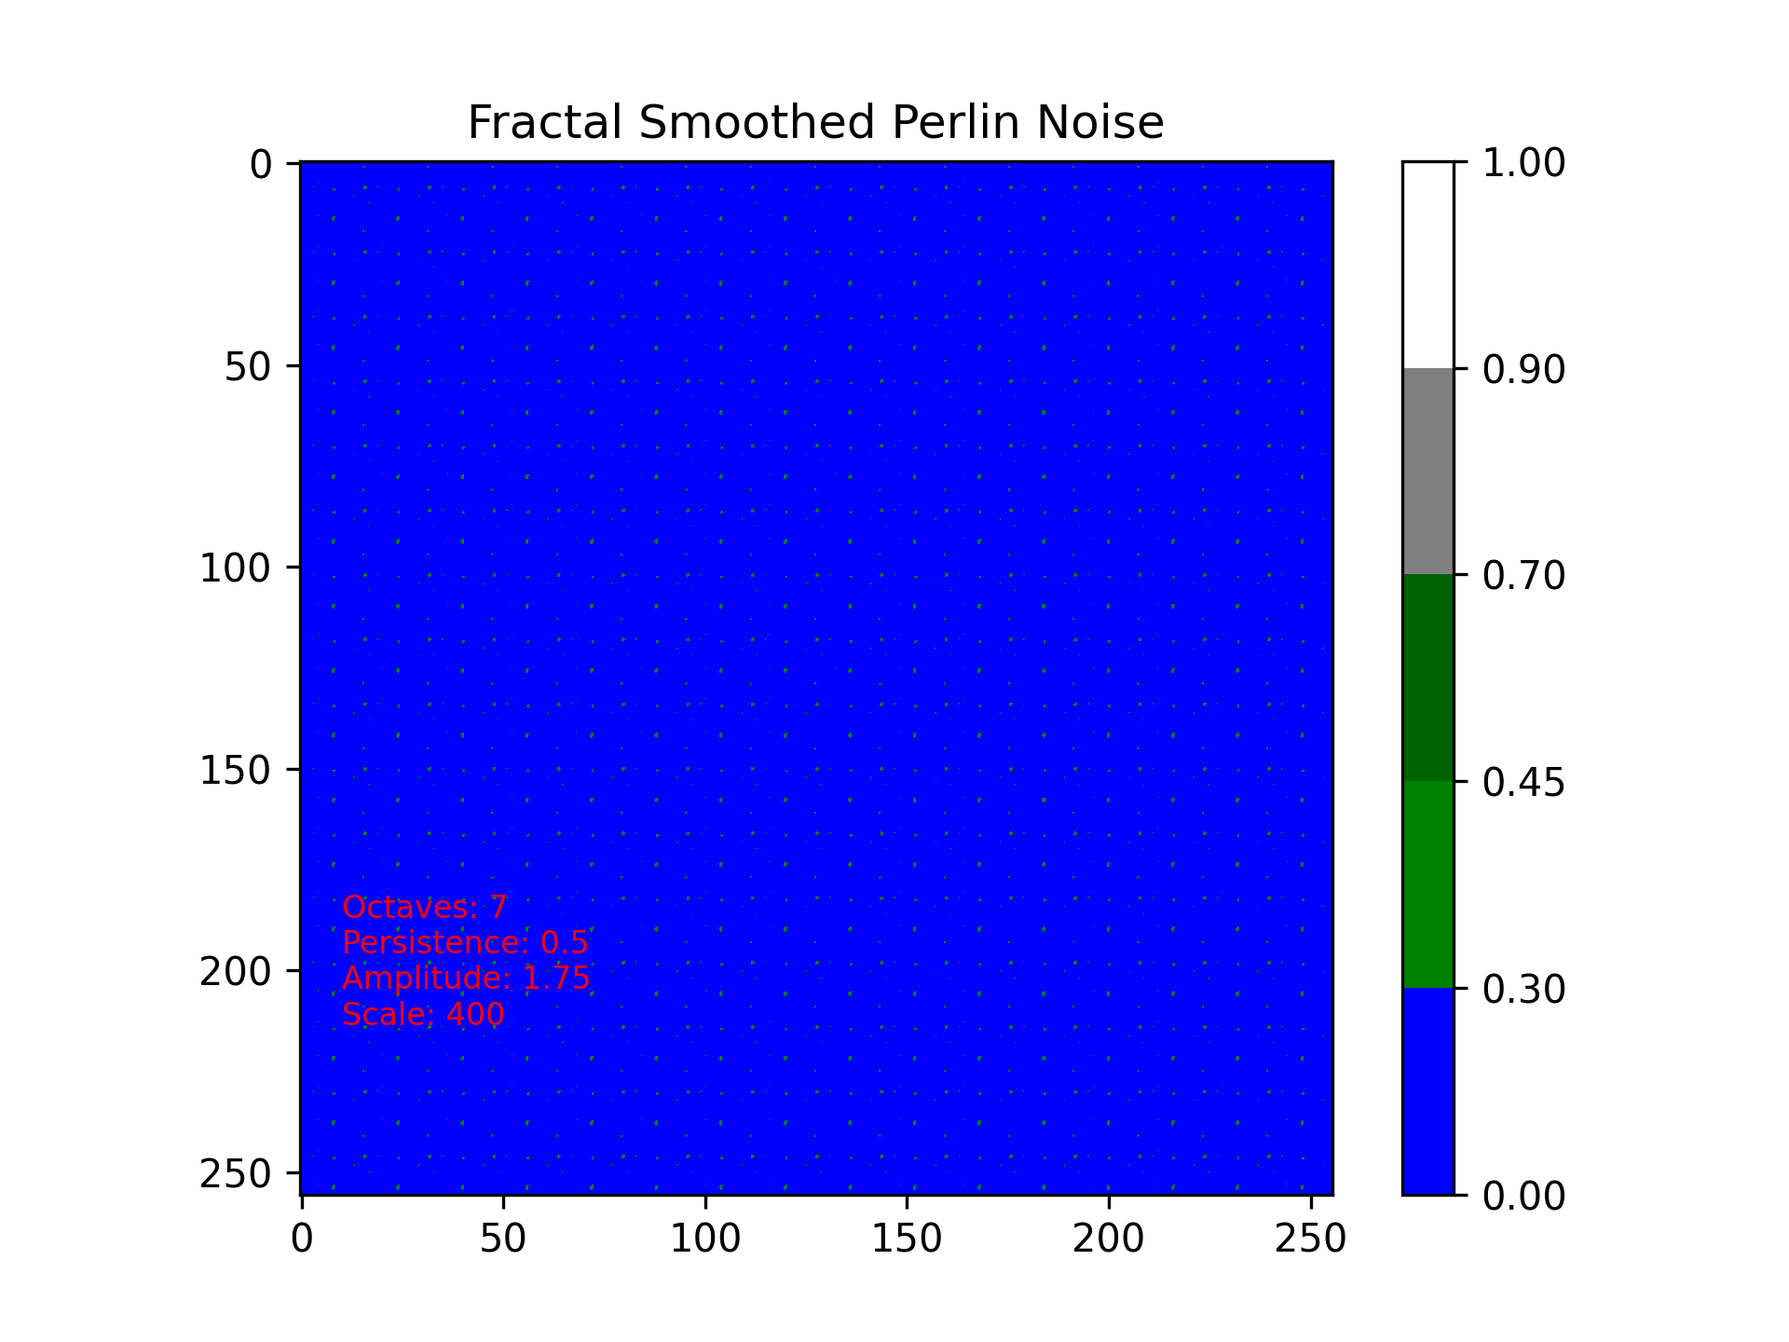
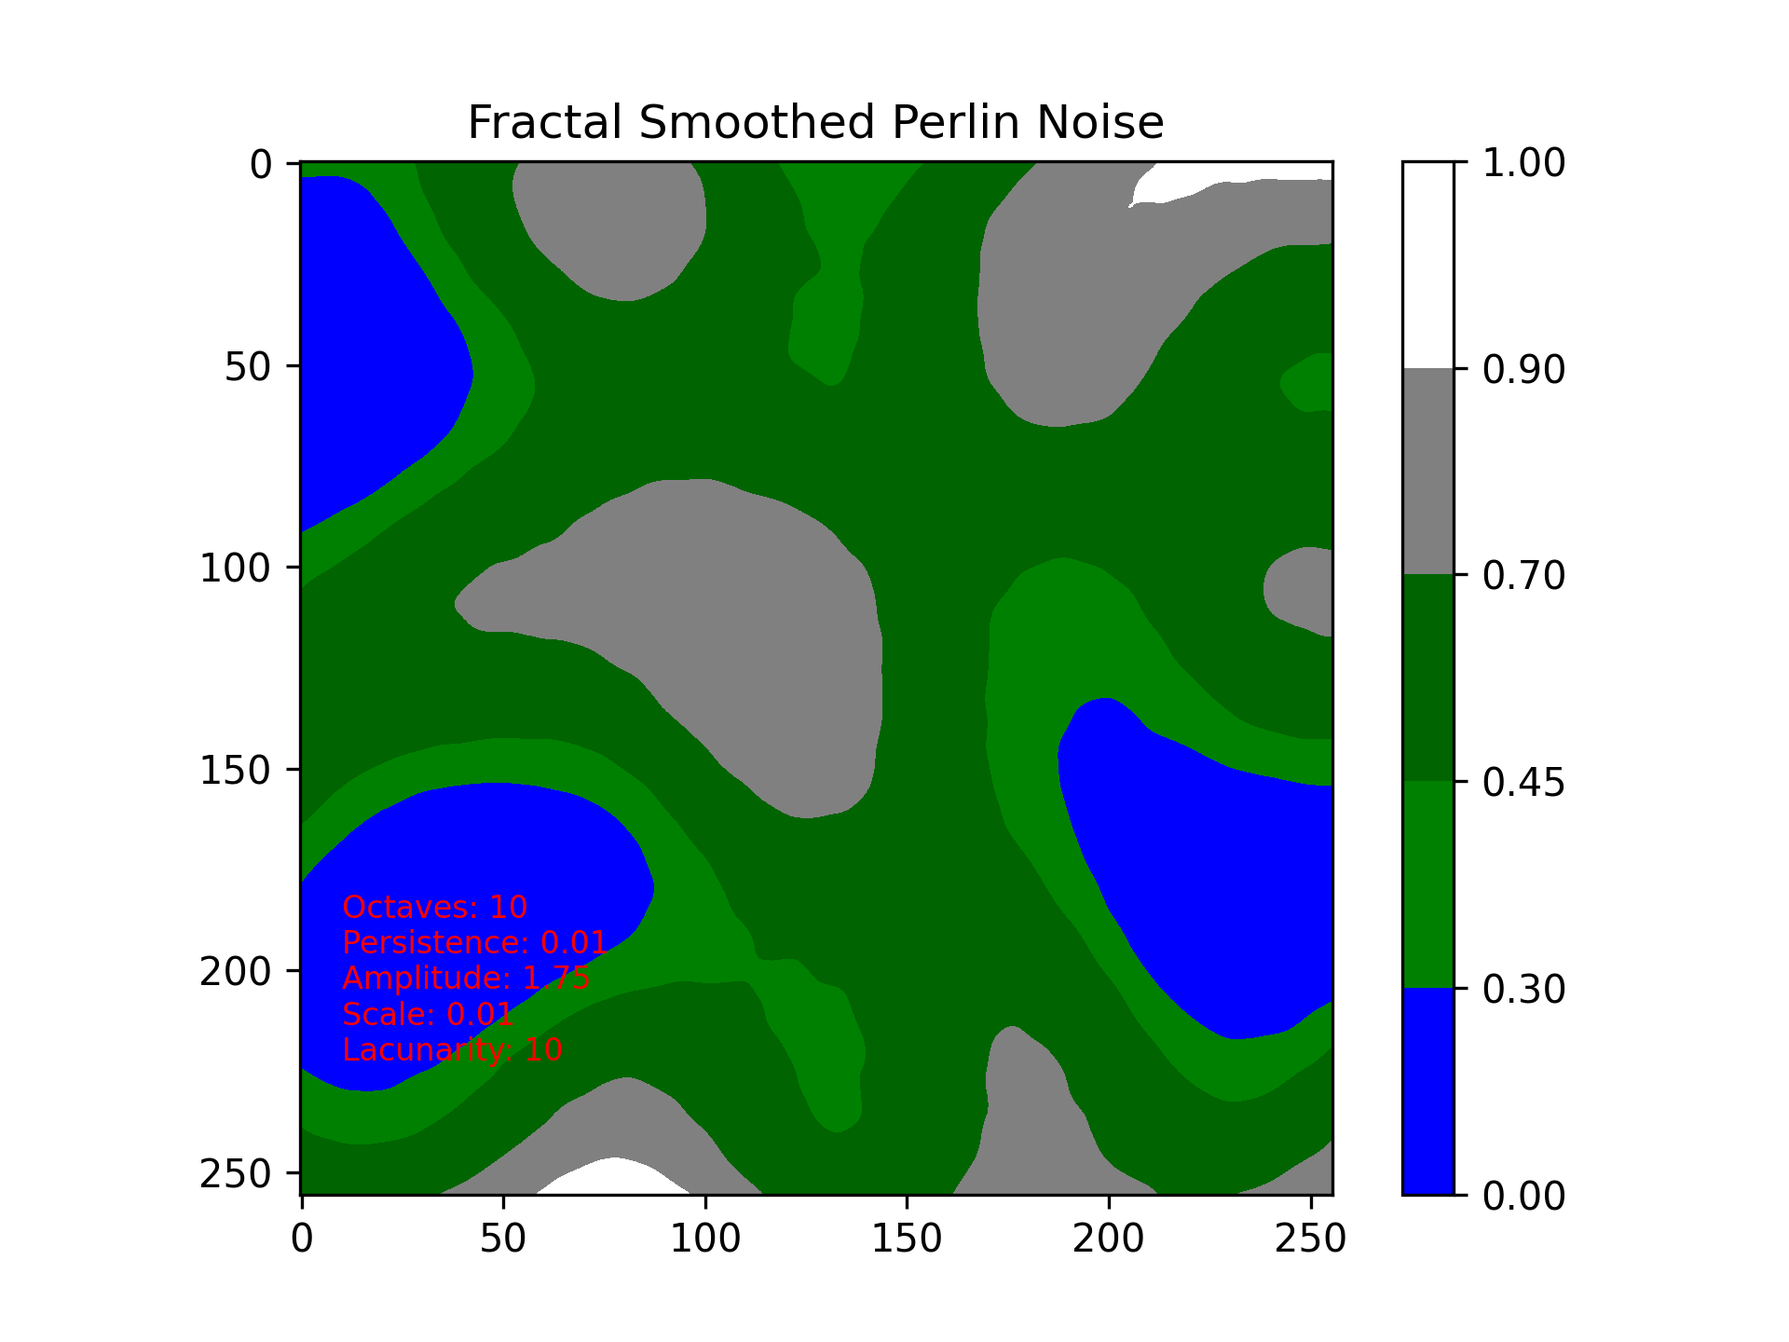
Fixed perlin noise

diff --git a/perlin_noise.py b/perlin_noise.py
@@ -102,46 +102,6 @@ def noise(x:float, y:float, permutations) -> float:
         - The `grad` function computes the gradient at a given corner.
         - The `interplate` function performs linear interpolation between values.
     """
-        
-
-    # # Find the grid cell coordinates
-    # x_i:int = int(np.floor(x)) & 255  # Wrap to [0, 255]
-    # y_i:int = int(np.floor(y)) & 255  # Wrap to [0, 255]
-
-
-    # # Find the relative coordinates within the cell
-    # x_f:float = x - np.floor(x)  # Fractional part of x
-    # y_f:float = y - np.floor(y)  # Fractional part of y
-
-
-    # # Fade the curves for smooth interpolation
-    # u = fade(x_f)
-    # v = fade(y_f)
-
-
-    # # Hash coordinates of the cube corners
-    # A = permutations[x_i] + y_i
-    # B = permutations[x_i + 1] + y_i
-    # # ba = permutations[x_i] + y_i + 1
-    # # bb = permutations[x_i + 1] + y_i + 1
-        
-
-    # # Compute the gradient at each corner of the cube
-    # grad_1 = grad(permutations[A], x_f, y_f)
-    # grad_2 = grad(permutations[B], x_f - 1, y_f)
-    # # grad_ba = grad(permutations[ba], x_f, y_f - 1)
-    # # grad_bb = grad(permutations[bb], x_f - 1, y_f - 1)
-    # grad_3 = grad(permutations[A+1], x_f, y_f - 1)
-    # grad_4 = grad(permutations[B+1], x_f - 1, y_f - 1)
-
-
-    # # Interpolate between the gradients
-    # x1 = interpolate(grad_1, grad_2, u)  # Interpolate along x-axis
-    # x2 = interpolate(grad_3, grad_4, u)  # Interpolate along x-axis
-    # result = interpolate(x1, x2, v)  # Interpolate along y-axis
-
-    # return result
-    # ==================================================================================
     X = int(np.floor(x)) & 255
     Y = int(np.floor(y)) & 255
         
@@ -153,17 +113,19 @@ def noise(x:float, y:float, permutations) -> float:
     u = fade(x)
     v = fade(y)
         
-    # Hash coordinates of the 4 square corners
+    # Hash coordinates of the 4 corners of the square
     A = permutations[X] + Y
     B = permutations[X + 1] + Y
-    C = permutations[X] + Y + 1
-    D = permutations[X + 1] + Y + 1
-        
-    # Calculate noise contributions from each corner
-    g1 = grad(permutations[A], x, y)
-    g2 = grad(permutations[B], x-1, y)
-    g3 = grad(permutations[C+1], x, y-1)
-    g4 = grad(permutations[D+1], x-1, y-1)
+    AA = permutations[A]
+    AB = permutations[A + 1]
+    BA = permutations[B]
+    BB = permutations[B + 1]
+    
+    # Calculate gradients at the four corners
+    g1 = grad(AA, x, y)
+    g2 = grad(BA, x - 1, y)
+    g3 = grad(AB, x, y - 1)
+    g4 = grad(BB, x - 1, y - 1)
         
     # Interpolate the noise values
     x1 = interpolate(g1, g2, u)
@@ -171,6 +133,7 @@ def noise(x:float, y:float, permutations) -> float:
         
     # Final interpolation
     return interpolate(x1, x2, v)
+
 
 
 def generate_perlin_noise(width:int, height:int, scale:float=1.0) -> np.ndarray[float]:
@@ -200,42 +163,8 @@ def generate_perlin_noise(width:int, height:int, scale:float=1.0) -> np.ndarray[
     return noise_grid
 
 
-    
-def generate_fractal_noise(width: int, height: int, octaves: int, persistence: float, amplitude: float, scale: float) -> np.ndarray[float]:
-    """
-    Generate a 2D grid of fractal Perlin noise by combining multiple octaves of Perlin noise.
 
-    Args:
-        width (int): The width of the noise grid.
-        height (int): The height of the noise grid.
-        octaves (int): The number of octaves for the fractal noise.
-        persistence (float): The persistence value controlling the amplitude of each octave.
-        amplitude (float): The initial amplitude of the noise.
-        scale (float): The scale factor for the noise.
-
-    Returns:
-        np.ndarray[float]: A 2D array of fractal Perlin noise values.
-    
-    Note:
-        This function does not normalize the output. Use `normalize_range` if normalization is required.
-    """
-    perms = generate_permutation()  # Generate the permutation array
-    noise_grid = np.zeros((height, width), dtype=float)
-
-    for octave in range(octaves):
-        print(f"\tGenerating octave {octave + 1} of {octaves}...")
-        frequency = scale * (2 ** octave)
-        octave_amplitude = amplitude * (persistence ** octave)
-
-        for y in range(height):
-            for x in range(width):
-                noise_grid[y, x] += noise(x * frequency, y * frequency, perms) * octave_amplitude
-
-    return noise_grid
-
-# =======================================================================================================================================================
-
-def octave_noise(x, y, permutations, octaves=1, persistence=0.5, lacunarity=2.0):
+def octave_noise(x, y, permutations, octaves=1, persistence=0.5, lacunarity=2.0, amplitude=1.0) -> float:
     """Generate Perlin noise with multiple octaves for more natural patterns.
     
     Args:
@@ -249,21 +178,20 @@ def octave_noise(x, y, permutations, octaves=1, persistence=0.5, lacunarity=2.0)
     """
     total = 0
     frequency = 1
-    amplitude = 1
     max_value = 0  # Used for normalizing result
     
-    for _ in range(octaves):
+    for octave in range(octaves):
         total += noise(x * frequency, y * frequency, permutations) * amplitude
         max_value += amplitude
         amplitude *= persistence
         frequency *= lacunarity
         
     # Normalize the result
-    return total / max_value if max_value > 0 else 0
+    return total / max_value
 
 
 
-def generate_noise_map(width, height, scale=0.1, octaves=4, persistence=0.5, lacunarity=2.0):
+def generate_fractal_map(width, height, scale=0.1, octaves=4, persistence=0.5, lacunarity=2.0, amplitude=1.0) -> np.ndarray[float]:
     """Generate a 2D noise map.
     
     Args:
@@ -286,18 +214,13 @@ def generate_noise_map(width, height, scale=0.1, octaves=4, persistence=0.5, lac
     for y in range(height):
         for x in range(width):
             # Scale coordinates and generate noise
-            nx = (x + offset_x) * scale
-            ny = (y + offset_y) * scale
-            noise_map[y][x] = octave_noise(nx, ny, permutations, octaves, persistence, lacunarity)
+            nx = (x + offset_x) * scale             # Changing the "*" to "/" will invert the scale (larger number equals zoomed in)
+            ny = (y + offset_y) * scale             # Changing the "*" to "/" will invert the scale (larger number equals zoomed in)
+            noise_map[y][x] = octave_noise(nx, ny, permutations, octaves, persistence, lacunarity, amplitude)
             
     return noise_map
 
 
-
-
-
-
-# =======================================================================================================================================================
 
 def gaussian_smooth(noise_grid:np.ndarray[float], sigma:float) -> np.ndarray[float]:
     """
@@ -400,7 +323,7 @@ def run_perlin_noise(size:tuple, show_plots:bool) -> None:
 
 
 
-def run_perlin_noise_fractal(size:tuple, octaves:int, persistence:float, amplitude:float, scale:float, colors:list[str], bounds:list[float], show_plots:bool, iterNum:int=0) -> None:
+def run_perlin_noise_fractal(size:tuple, octaves:int, persistence:float, amplitude:float, lacunarity:float, scale:float, colors:list[str], bounds:list[float], show_plots:bool, iterNum:int=0) -> None:
     """
     Generates and visualizes fractal Perlin noise in both 2D and 3D plots.
     This function creates fractal Perlin noise using the specified parameters, normalizes the noise
@@ -424,11 +347,10 @@ def run_perlin_noise_fractal(size:tuple, octaves:int, persistence:float, amplitu
     save_filepath = "images/perlin/fractal/fractal_perlin"
 
     print("Generating fractal Perlin noise...")
-    # noise = generate_fractal_noise(grid_size[0], grid_size[1], octaves, persistence, amplitude, scale)  # Generate fractal Perlin noise
-    noise = generate_noise_map(grid_size[0], grid_size[1], scale, octaves, persistence)  # Generate fractal Perlin noise
+    noise = generate_fractal_map(grid_size[0], grid_size[1], scale, octaves, persistence, lacunarity, amplitude)  # Generate fractal Perlin noise
 
     # Normalize the noise values to a specified range
-    # noise = normalize_range(noise)  # Normalize the noise values
+    noise = normalize_range(noise)  # Normalize the noise values
 
     # Define custom colormap
     cmap = ListedColormap(colors)
@@ -438,7 +360,7 @@ def run_perlin_noise_fractal(size:tuple, octaves:int, persistence:float, amplitu
     plt.imshow(noise, cmap=cmap, norm=norm, interpolation='lanczos')
     plt.colorbar()  # Add a color bar to the plot
     plt.title("Fractal Smoothed Perlin Noise")
-    plt.text(10, size[0]-75, f"Octaves: {octaves}\nPersistence: {persistence}\nAmplitude: {amplitude}\nScale: {scale}", fontsize=8, color='red', ha='left', va='top')
+    plt.text(10, size[0]-75, f"Octaves: {octaves}\nPersistence: {persistence}\nAmplitude: {amplitude}\nScale: {scale}\nLacunarity: {lacunarity}", fontsize=8, color='red', ha='left', va='top')
     plt.savefig(f"{save_filepath}_2d_ {iterNum}.png", dpi=300)  # Save the plot as an image
     print("Plotting 2D fractal Perlin noise...")
     if show_plots:
@@ -460,14 +382,10 @@ def run_perlin_noise_fractal(size:tuple, octaves:int, persistence:float, amplitu
 
     # Add a color bar
     cbar = fig.colorbar(land, ax=ax, boundaries=bounds, ticks=bounds)
-    cbar.set_label('Noise Value')
 
     # Labels for the axes
-    ax.set_xlabel('X')
-    ax.set_ylabel('Y')
-    ax.set_zlabel('Perlin Noise Value')
     ax.set_title('Fractal Smoothed Perlin Noise')
-    fig.text(0.20, 0.80, f"Octaves: {octaves}\nPersistence: {persistence}\nAmplitude: {amplitude}\nScale: {scale}", fontsize=8, color='red', ha='left', va='top')
+    fig.text(0.20, 0.80, f"Octaves: {octaves}\nPersistence: {persistence}\nAmplitude: {amplitude}\nScale: {scale}\nLacunarity: {lacunarity}", fontsize=8, color='red', ha='left', va='top')
     print("Plotting 3D fractal Perlin noise...\n")
     plt.savefig(f"{save_filepath}_3d_{iterNum}.png", dpi=300)  # Save the plot as an image
     if show_plots:
@@ -603,10 +521,11 @@ if __name__ == "__main__":
 
 
     run_perlin_noise_fractal( size=grid_size, \
-                            octaves=7, \
-                            persistence=0.5, \
+                            octaves=10, \
+                            persistence=.01, \
                             amplitude=1.75, \
-                            scale=400, \
+                            scale= .01, \
+                            lacunarity=10, \
                             colors=land_type_colors, \
                             bounds=land_type_boundaries, \
                             show_plots=False)  # Run the fractal Perlin noise generation and plotting
@@ -614,35 +533,37 @@ if __name__ == "__main__":
 
 
 # Run fractal Perlin noise with various combinations of parameters
-# octave_values = [2, 4, 6, 8, 10]
-# persistence_values = [0.3, 0.5, 0.7]
-# amplitude_values = [0.4, 0.6, 0.8]
-# scale_values = [0.1, 0.01, 0.001, 0.0001]
+octave_values = [2, 4, 6, 8, 10]
+persistence_values = [0.3, 0.5, 0.7]
+amplitude_values = [0.4, 0.6, 0.8, 1.0, 1.5]
+scale_values = [200, 100, 10, 1, 0.1, 0.01]
+lacunarity_values = [1.5, 2.0, 2.5, 3.0]
 
-# total_iterations = len(octave_values) * len(persistence_values) * len(amplitude_values) * len(scale_values)
-# current_iteration = 0
+total_iterations = len(octave_values) * len(persistence_values) * len(amplitude_values) * len(scale_values) * len(lacunarity_values)
+current_iteration = 0
 
-# for scale in scale_values:
-#     for persistence in persistence_values:
-#         for amplitude in amplitude_values:
-#             for octaves in octave_values:
-#                 current_iteration += 1
-#                 print(f"Iteration {current_iteration} of {total_iterations} - Progress: {(current_iteration / total_iterations) * 100:.2f}% complete")
-#                 print(f"Running fractal Perlin noise with octaves={octaves}, persistence={persistence}, amplitude={amplitude}, scale={scale}")
-#                 run_perlin_noise_fractal(
-#                     width=width,
-#                     height=height,
-#                     octaves=octaves,
-#                     persistence=persistence,
-#                     amplitude=amplitude,
-#                     scale=scale,
-#                     colors=land_type_colors,
-#                     bounds=land_type_boundaries,
-#                     show_plots=False,
-#                     iterNum=current_iteration
-#                 )
+for scale in scale_values:
+    for persistence in persistence_values:
+        for amplitude in amplitude_values:
+            for octaves in octave_values:
+                for lacunarity in lacunarity_values:
+                    current_iteration += 1
+                    print(f"Iteration {current_iteration} of {total_iterations} - Progress: {(current_iteration / total_iterations) * 100:.2f}% complete")
+                    print(f"Running fractal Perlin noise with octaves={octaves}, persistence={persistence}, amplitude={amplitude}, scale={scale}, lacunarity={lacunarity}")
+                    run_perlin_noise_fractal(
+                        size=grid_size,
+                        octaves=octaves,
+                        persistence=persistence,
+                        amplitude=amplitude,
+                        scale=scale,
+                        lacunarity=lacunarity,
+                        colors=land_type_colors,
+                        bounds=land_type_boundaries,
+                        show_plots=False,
+                        iterNum=current_iteration
+                    )
 
-# end_time = time.time()  # End timing
-# total_time = end_time - start_time
-# minutes, seconds = divmod(total_time, 60)
-# print(f"Total time taken: {int(minutes)} minutes and {seconds:.2f} seconds")
+end_time = time.time()  # End timing
+total_time = end_time - start_time
+minutes, seconds = divmod(total_time, 60)
+print(f"Total time taken: {int(minutes)} minutes and {seconds:.2f} seconds")

diff --git a/README.md b/README.md
@@ -13,6 +13,36 @@ This project implements and compares three algorithms commonly used in procedura
 
 The goal is to analyze their performance, visual output, and use cases in computer graphics.
 
+
+## Algorithm Descriptions
+The following section provides a detailed explanation of the three algorithms implemented in this project. Each algorithm is described in terms of its purpose, methodology, and key parameters. By understanding these algorithms, readers can gain insights into their applications in procedural terrain generation and their respective strengths and limitations.
+
+### Perlin Noise
+Perlin Noise is a gradient noise function developed by Ken Perlin, widely used in procedural texture generation. It produces smooth, continuous patterns that resemble natural phenomena such as clouds, terrain, or wood grain. The algorithm works by interpolating random gradients at grid points and blending them to create a coherent noise pattern. It is computationally efficient and supports multi-octave layering to achieve more complex textures. 
+
+In this implementation, smoothing was performed using a fractal method, which combines multiple layers of Perlin Noise at different frequencies and amplitudes. This approach enhances the visual complexity and realism of the generated patterns.
+
+#### Fractal Smoothing Parameters
+- **Octaves**: The number of layers of Perlin Noise combined to create the final texture. Higher values result in more detail.
+- **Persistence**: Controls the amplitude of each successive octave. A lower value reduces the contribution of higher-frequency layers.
+- **Lacunarity**: Determines the frequency of each successive octave. Higher values increase the frequency, creating finer details.
+- **Amplitude**: Controls the intensity of the noise pattern. Higher values increase the contrast between peaks and valleys, creating more pronounced features, while lower values produce smoother, less distinct patterns. Adjusting the amplitude allows for fine-tuning the visual impact of the generated texture.
+- **Scale**: Determines the spacing between the gradients in the Perlin Noise grid. Smaller values result in more compressed patterns with finer details, while larger values produce broader, smoother patterns. Adjusting the scale allows for control over the level of detail in the generated texture.
+
+#### Gaussian Smoothing Parameters
+- **Sigma**: Represents the standard deviation of the Gaussian function used for smoothing Perlin noise. 
+    A higher sigma value results in smoother noise with less detail, while a lower sigma value retains more fine-grained details.
+
+### Diamond Square
+The Diamond Square algorithm is a fractal-based technique for generating heightmaps, often used in terrain generation. It starts with a grid of points, where corner values are initialized. The algorithm alternates between two steps:
+1. **Diamond Step**: Calculates the midpoint of each square by averaging its corners and adding a random offset.
+2. **Square Step**: Calculates the midpoint of each edge by averaging the two adjacent corners and adding a random offset.
+This process is repeated recursively, with the random offset decreasing at each iteration to create realistic terrain with varying levels of detail.
+
+### Voronoi Biome
+Voronoi Biome generation is based on Voronoi diagrams, which partition space into regions based on the proximity to a set of seed points. Each region corresponds to the area closest to a specific seed. This method is commonly used in procedural generation to simulate natural phenomena such as cellular structures, biome distribution, or settlement layouts. By assigning different properties to each region, Voronoi diagrams can create diverse and visually appealing patterns for use in games or simulations.
+
+
 ## File Structure
 ```
 /Project
@@ -30,20 +60,6 @@ The goal is to analyze their performance, visual output, and use cases in comput
 │   └── voronoi/          # Voronoi Biome output images
 ```
 
-
-### Perlin Noise
-Perlin Noise is a gradient noise function developed by Ken Perlin, widely used in procedural texture generation. It produces smooth, continuous patterns that resemble natural phenomena such as clouds, terrain, or wood grain. The algorithm works by interpolating random gradients at grid points and blending them to create a coherent noise pattern. It is computationally efficient and supports multi-octave layering to achieve more complex textures. 
-
-In this implementation, smoothing was performed using a fractal method, which combines multiple layers of Perlin Noise at different frequencies and amplitudes. This approach enhances the visual complexity and realism of the generated patterns.
-
-### Diamond Square
-The Diamond Square algorithm is a fractal-based technique for generating heightmaps, often used in terrain generation. It starts with a grid of points, where corner values are initialized. The algorithm alternates between two steps:
-1. **Diamond Step**: Calculates the midpoint of each square by averaging its corners and adding a random offset.
-2. **Square Step**: Calculates the midpoint of each edge by averaging the two adjacent corners and adding a random offset.
-This process is repeated recursively, with the random offset decreasing at each iteration to create realistic terrain with varying levels of detail.
-
-### Voronoi Biome
-Voronoi Biome generation is based on Voronoi diagrams, which partition space into regions based on the proximity to a set of seed points. Each region corresponds to the area closest to a specific seed. This method is commonly used in procedural generation to simulate natural phenomena such as cellular structures, biome distribution, or settlement layouts. By assigning different properties to each region, Voronoi diagrams can create diverse and visually appealing patterns for use in games or simulations.
 
 ## References
 1.  
